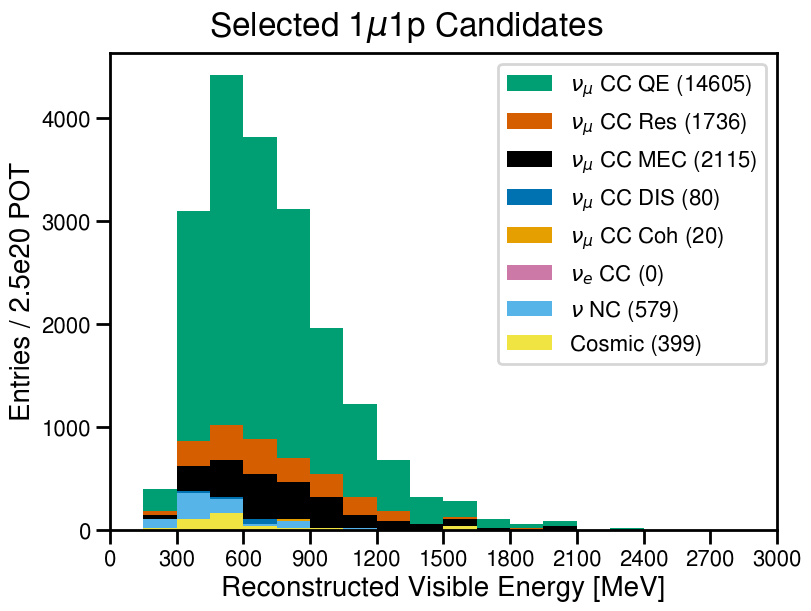
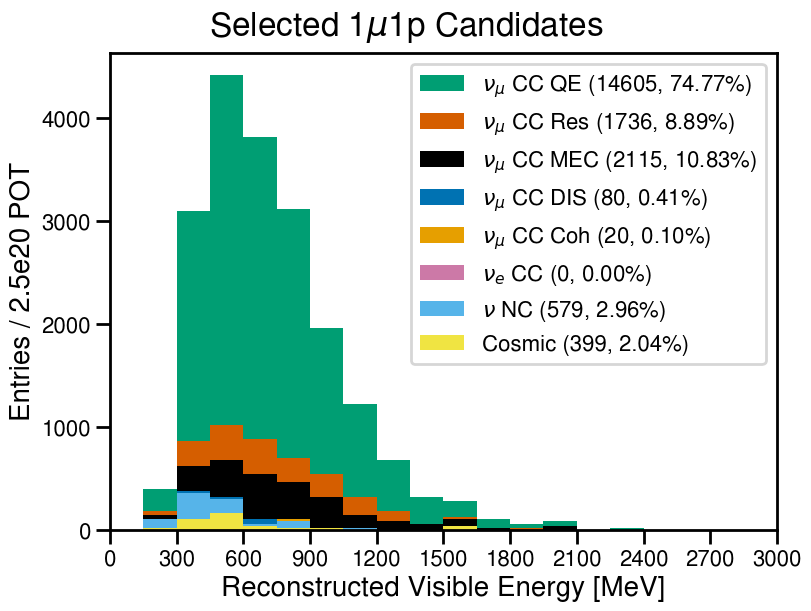
Added "show_percentage" option to stacked plots

Changed region(s): [[0.4932, 0.0933, 0.9248, 0.6219]]

diff --git a/plotting/plot_funcs.py b/plotting/plot_funcs.py
@@ -172,8 +172,12 @@ def plot_histogram_1d(rf, desc):
     if isinstance(desc.var, list):
         ax.legend()
     else:
+        show_percentage = hasattr(desc, 'show_percentage') and desc.show_percentage
         h, l = ax.get_legend_handles_labels()
-        l = [f'{l} ({np.sum(contents[li]):.0f})'for li, l in enumerate(l)]
+        if show_percentage:
+            l = [f'{l} ({np.sum(contents[li]):.0f}, {np.sum(contents[li]) / np.sum(contents):.02%})'for li, l in enumerate(l)]
+        else:
+            l = [f'{l} ({np.sum(contents[li]):.0f})'for li, l in enumerate(l)]
         ax.legend(h[::-1], l[::-1])
     figure.suptitle(desc.title)
     figure.savefig(desc.save)
